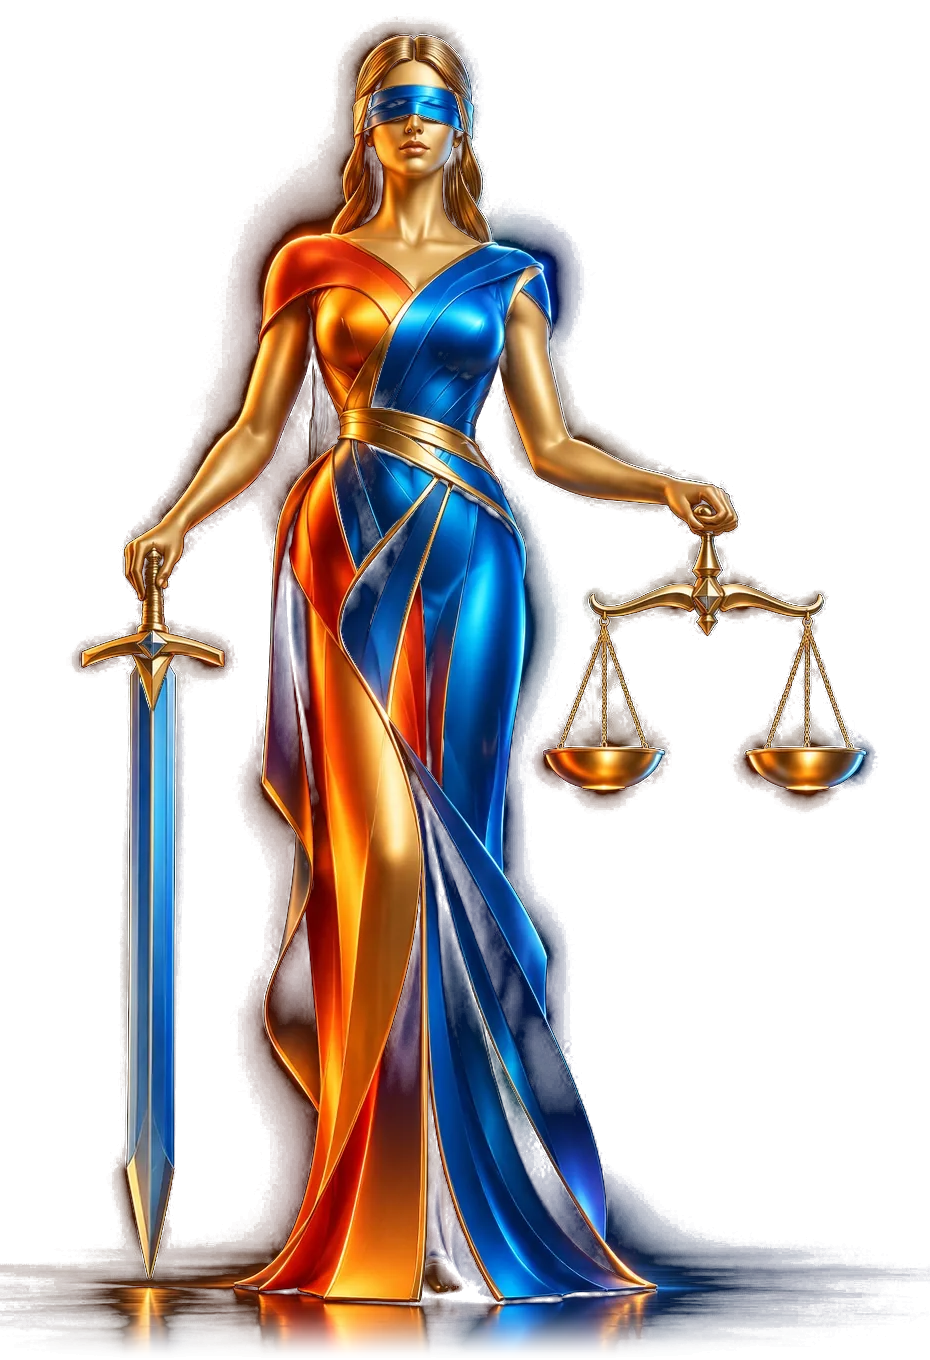
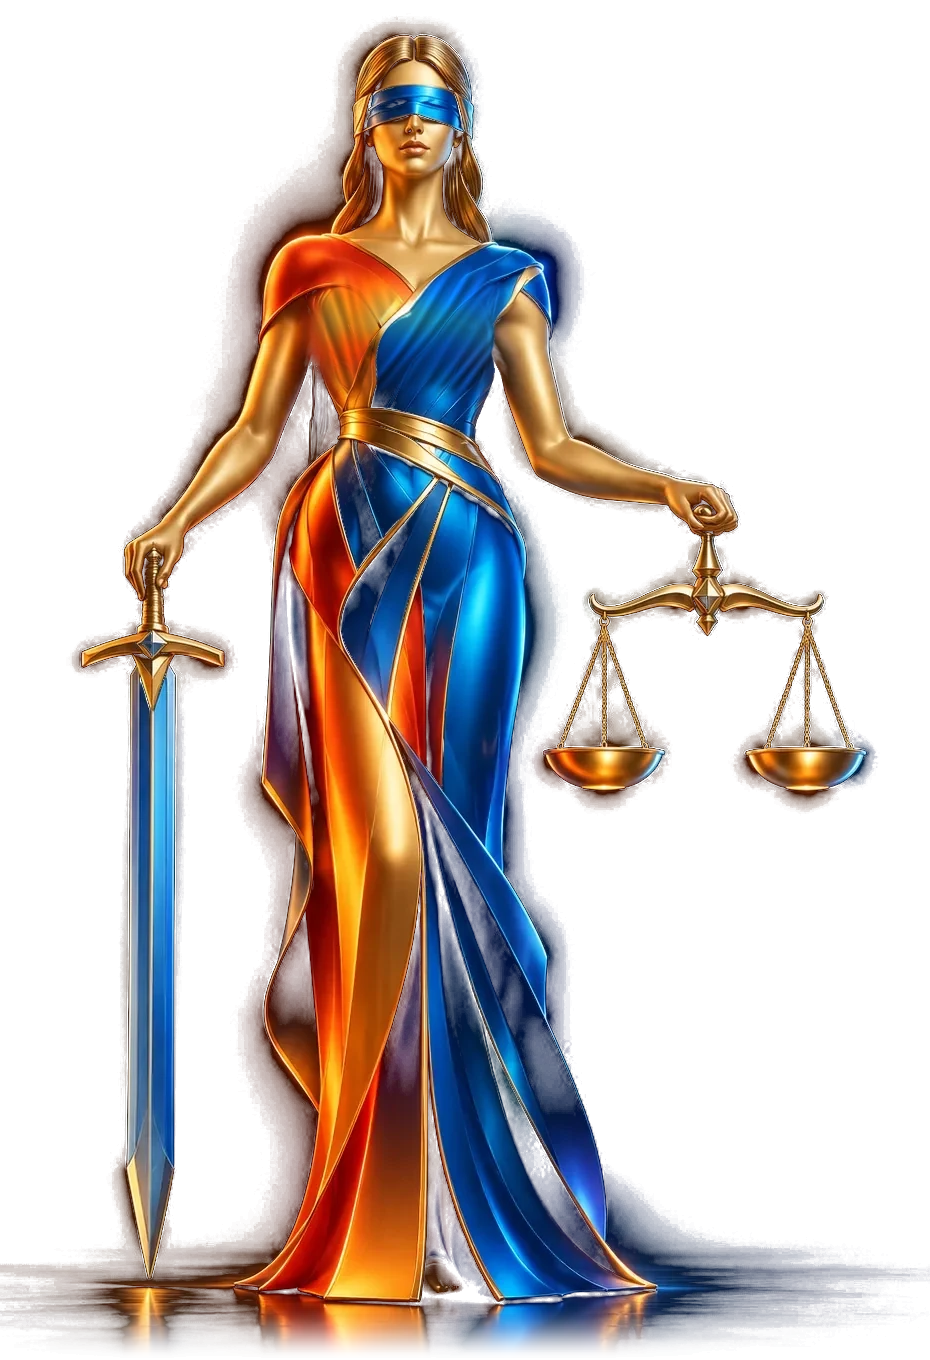
Фемида: меньше грудь и свободная ткань на первом экране
Кадр themis-alive.webp: грудь сжата к центру примерно на 15%, светотень
формы заменена свободными складками ткани в цветах платья, закрыты
полупрозрачные пятна ткани. Лицо, руки, ленты, пояс, меч и весы прежние,
области анимации в themis.js не менялись.

Тест сверяет размер кадра с разметкой, CSS и SOURCE анимации, наличие
прозрачности и отсутствие метаданных.

Changed region(s): [[0.3118, 0.1853, 0.5613, 0.3088]]

diff --git a/frontend/tests/python/test_pages.py b/frontend/tests/python/test_pages.py
@@ -1128,6 +1128,28 @@ def test_office_texts_follow_glossary():
         assert re.findall(".{0,40}[ёЁ–—].{0,20}", template.read_text()) == [], template.name
 
 
+WEBP_ALPHA_FLAG = 0x10
+WEBP_METADATA_FLAGS = 0x20 | 0x08 | 0x04
+
+
+def webp_canvas(path):
+    data = path.read_bytes()
+    assert data[:4] == b"RIFF" and data[8:16] == b"WEBPVP8X"
+    width = 1 + int.from_bytes(data[24:27], "little")
+    height = 1 + int.from_bytes(data[27:30], "little")
+    return width, height, data[20]
+
+
+def test_themis_poster_matches_animation_frame():
+    package = Path(club_web.__file__).parent
+    width, height, flags = webp_canvas(PUBLIC / "assets/themis-alive.webp")
+    source = re.search(r"const SOURCE = \[\d+, \d+, (\d+), (\d+)\]", (package / "browser/themis.js").read_text())
+    ratio = re.search(r"--themis-ratio: (\d+) / (\d+)", (package / "styles/themis.css").read_text())
+    assert f'width="{width}" height="{height}"' in (package / "templates/themis.html").read_text()
+    assert tuple(map(int, source.groups())) == tuple(map(int, ratio.groups())) == (width, height)
+    assert flags & WEBP_ALPHA_FLAG and not flags & WEBP_METADATA_FLAGS
+
+
 async def test_event_form_picks_moscow_date_and_time():
     async def upstream(request):
         if request.url.path == "/auth/admin-session":

diff --git a/docs/product/media-sources.md b/docs/product/media-sources.md
@@ -27,3 +27,7 @@
 # Живая Фемида, 23 октября 2026
 
 Иллюстрацию Фемиды для первого экрана главной и Mini App (шаблон `themis.html`) предоставил владелец проекта вместе с кодом её анимации. Файл `assets/themis-alive.webp` – кадр 930×1360 из исходных 1122×1402: чёрный фон переведён в прозрачность по яркости, отражение пола гаснет к низу. Метаданные в WebP не записываются.
+
+# Скромнее силуэт Фемиды, 6 ноября 2026
+
+В кадре `assets/themis-alive.webp` уменьшена грудь фигуры: область x 297–523, y 262–404 сжата к центру примерно на 15%, светотень формы заменена свободными складками ткани в цветах платья, полупрозрачные пятна ткани, оставшиеся от перевода фона в прозрачность, закрыты. Лицо, руки, ленты, пояс, меч и весы не менялись, области анимации в `themis.js` прежние. Кадр сохранён в WebP с качеством 90 и прозрачностью без потерь.

diff --git a/DESIGN.md b/DESIGN.md
@@ -255,7 +255,8 @@ Mini App – используют тёмную тему:
 - [themis.html](frontend/club_web/templates/themis.html) – живая Фемида первого
   экрана главной и приветствия Mini App. Иллюстрацию предоставил владелец
   проекта; `assets/themis-alive.webp` (930×1360) – её кадр без чёрного фона:
-  прозрачность из яркости, отражение пола гаснет к низу. Анимацию рисует
+  прозрачность из яркости, отражение пола гаснет к низу, грудь уменьшена и
+  прикрыта свободными складками ткани. Анимацию рисует
   [themis.js](frontend/club_web/browser/themis.js) на WebGL поверх этого кадра.
   Без WebGL, без JavaScript, при `prefers-reduced-motion: reduce` и в версии
   для слабовидящих показывается неподвижный кадр.
